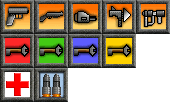
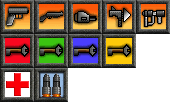
Cleanup code, improve HUD handling

diff --git a/src/scripts/scenes/mainScene.ts b/src/scripts/scenes/mainScene.ts
@@ -10,11 +10,21 @@ import { createWorldFromBSP } from '../genesis3d/bsp'
 import WPS from '../kaitai/adoom_wps'
 import { KaitaiStream } from 'kaitai-struct'
 
+const numberSize = 44;
+const iconSize = 34;
+
 export default class MainScene extends Scene3D {
   player: ExtendedObject3D
   keys: any
   firstPersonControls: FirstPersonControls
   tmpVec3 = new THREE.Vector3();
+  // HUD variables
+  healthDigits: Phaser.GameObjects.Sprite[] = [];
+  ammoDigits: Phaser.GameObjects.Sprite[] = [];
+  weaponIcons: Phaser.GameObjects.Sprite[] = [];
+  // Stats
+  health: number = 100;
+  ammo: number = 50;
 
   constructor() {
     super({ key: 'MainScene' })
@@ -29,44 +39,61 @@ export default class MainScene extends Scene3D {
     this.load.binary('wps', 'assets/levels/level1_1.wps')
 
     this.load.spritesheet('numbers', 'assets/img/HUDFont2.png', {
-      frameWidth: 44,
-      frameHeight: 44,
+      frameWidth: numberSize,
+      frameHeight: numberSize,
     })
     this.load.spritesheet('icons', 'assets/img/HUDIcons2.png', {
-      frameWidth: 34,
-      frameHeight: 34,
+      frameWidth: iconSize,
+      frameHeight: iconSize,
     })
   }
 
-  drawNumber(x, y, number) {
-    let fontSize = 34 * 2;
+  drawNumber(number, sprites: Phaser.GameObjects.Sprite[]) {
+    number = Math.floor(number)
     let c1 = Math.floor(number / 100);
     let c2 = Math.floor((number % 100) / 10);
     let c3 = Math.floor(number % 10);
-    this.add.sprite(x, y - fontSize, 'numbers', c1).setOrigin(0,0).scale = 2;
-    this.add.sprite(x + fontSize, y - fontSize, 'numbers', c2).setOrigin(0,0).scale = 2;
-    this.add.sprite(x + fontSize * 2, y - fontSize, 'numbers', c3).setOrigin(0,0).scale = 2;
+    sprites[0].setFrame(c1)
+    sprites[1].setFrame(c2)
+    sprites[2].setFrame(c3)
   }
 
-  create() {
-    this.third.warpSpeed('camera', 'light', 'sky').then(({lights}) => {
-      lights!.directionalLight.intensity = 0.5;
-      lights!.ambientLight.intensity = 0.3;
-    })
+  createHUD() {
+    const scale = 2;
+    const fontSpacing = (numberSize -10) * scale;
+    const iconSpacing = (iconSize + 5) * scale;
 
-    const scale = 0.02;
-    
-    //this.third.physics.debug?.enable();
+    // Available Weapons
+    this.weaponIcons = [ // frame 9 is empty frame
+      this.add.sprite(10 + 0*iconSpacing, 10, 'icons', 0).setOrigin(0,0),
+      this.add.sprite(10 + 1*iconSpacing, 10, 'icons', 1).setOrigin(0,0).setVisible(false),
+      this.add.sprite(10 + 2*iconSpacing, 10, 'icons', 2).setOrigin(0,0).setVisible(false),
+      this.add.sprite(10 + 3*iconSpacing, 10, 'icons', 3).setOrigin(0,0).setVisible(false),
+      this.add.sprite(10 + 4*iconSpacing, 10, 'icons', 4).setOrigin(0,0).setVisible(false),
+    ];
+    this.weaponIcons.forEach(w => w.scale = scale);
 
-    // Guns
-    this.add.sprite(10, 10, 'icons', 0).setOrigin(0,0).scale = 2;
+    // Helper for creating set of 3 digits using sprites
+    const createDigits = (x, y): Phaser.GameObjects.Sprite[] => {
+      let digits: Phaser.GameObjects.Sprite[] = [
+        this.add.sprite(x, y - fontSpacing, 'numbers', 0).setOrigin(0,0),
+        this.add.sprite(x + fontSpacing, y - fontSpacing, 'numbers', 0).setOrigin(0,0),
+        this.add.sprite(x + fontSpacing * 2, y - fontSpacing, 'numbers', 0).setOrigin(0,0),
+      ];
+      digits.forEach(spr => spr.scale = scale);
+      return digits;
+    }
 
     // Health & Ammo
-    this.drawNumber(10, this.cameras.main.height - 20, 100);
+    this.healthDigits = createDigits(10, this.cameras.main.height - 20);
     this.add.sprite(15 + 210, this.cameras.main.height - 12 - 34*2, 'icons', 10).setOrigin(0,0).scale = 2;
-    this.drawNumber(this.cameras.main.width - 240, this.cameras.main.height - 20, 50);
+    this.ammoDigits = createDigits(this.cameras.main.width - 240, this.cameras.main.height - 20);
     this.add.sprite(this.cameras.main.width - 300, this.cameras.main.height - 12 - 34*2, 'icons', 11).setOrigin(0,0).scale = 2;
+  }
 
+  createLevel() {
+    const scale = 0.02;
+    
     const bsp = this.cache.binary.get('bsp');
     const wps = this.cache.binary.get('wps');
 
@@ -87,7 +114,9 @@ export default class MainScene extends Scene3D {
 
     const parsed = new WPS(new KaitaiStream(wps));
     console.log(parsed);
+  }
 
+  createPlayer() {
     let v = new THREE.Vector3();
     v.set(2825,-521,3390).multiplyScalar(0.02); // from entities
 
@@ -102,6 +131,19 @@ export default class MainScene extends Scene3D {
     this.player.body.setAngularFactor(0, 0, 0)
     this.player.body.setFriction(0.8)
     this.player.castShadow = false
+  }
+
+  create() {
+    this.third.warpSpeed('camera', 'light', 'sky').then(({lights}) => {
+      lights!.directionalLight.intensity = 0.5;
+      lights!.ambientLight.intensity = 0.3;
+    })
+
+    //this.third.physics.debug?.enable();
+
+    this.createHUD();
+    this.createLevel();
+    this.createPlayer();
 
     // add first person controls
     this.firstPersonControls = new FirstPersonControls(this.third.camera, this.player, {})
@@ -132,6 +174,9 @@ export default class MainScene extends Scene3D {
   update(time: number, delta: number) {
     if (!this.player || !this.keys) return
 
+    this.drawNumber(this.health, this.healthDigits);
+    this.drawNumber(this.ammo, this.ammoDigits);
+
     const rotation = this.third.camera.getWorldDirection(this.tmpVec3)
     const theta = Math.atan2(rotation.x, rotation.z)
     const speed = 3
@@ -161,4 +206,3 @@ export default class MainScene extends Scene3D {
     this.player.body.setVelocity(vx, vy, vz)
   }
 }
-
